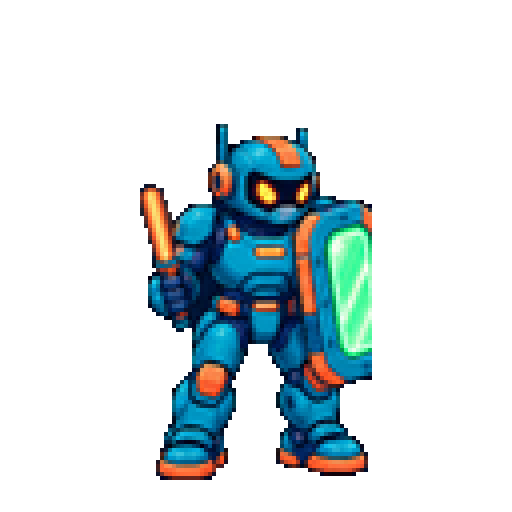
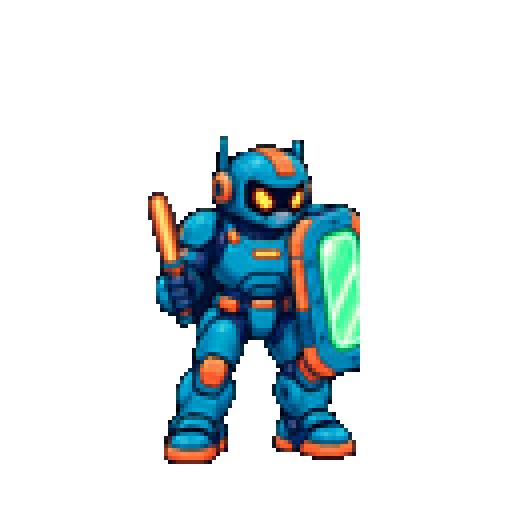
fix(assets): add safe motion gutters to new enemies

Changed region(s): [[0.25, 0.2188, 0.75, 0.9375]]

diff --git a/android/tools/build_striker_enemy.py b/android/tools/build_striker_enemy.py
@@ -32,7 +32,10 @@ SAFE_FRAME_REMAP = {
 }
 
 WALK_BOB_Y = (0, -2, 0, -2, 0, -2)
-ATTACK_LUNGE_X = (0, 0, 4, 10, 4, 0)
+SAFE_WIDTH = 128
+SAFE_HEIGHT = 164
+SAFE_BOTTOM = 12
+ATTACK_LUNGE_X = (0, 0, 2, 4, 2, 0)
 
 
 def remove_light_checker(image: Image.Image) -> Image.Image:
@@ -173,7 +176,9 @@ def normalize_row(frames: list[Image.Image]) -> list[Image.Image]:
     assert all(boxes)
     widths = [box[2] - box[0] for box in boxes if box]
     heights = [box[3] - box[1] for box in boxes if box]
-    scale = min(148 / max(widths), 178 / max(heights))
+    # Leave enough room for runtime bob, hit recoil, TV resampling and facing
+    # flips.  The old 148x178 box left only 4-6px and visibly clipped gloves.
+    scale = min(SAFE_WIDTH / max(widths), SAFE_HEIGHT / max(heights))
     normalized = []
     for frame, box in zip(frames, boxes):
         assert box is not None
@@ -187,8 +192,8 @@ def normalize_row(frames: list[Image.Image]) -> list[Image.Image]:
         sprite = small.resize((target[0] * 2, target[1] * 2), Image.Resampling.NEAREST)
         cell = Image.new("RGBA", CELL_SIZE, (0, 0, 0, 0))
         x = ((CELL_SIZE[0] - sprite.width) // 2) & ~1
-        y = CELL_SIZE[1] - 4 - sprite.height
-        assert x >= 4 and y >= 4, (sprite.size, x, y)
+        y = CELL_SIZE[1] - SAFE_BOTTOM - sprite.height
+        assert x >= 12 and y >= 12, (sprite.size, x, y)
         cell.alpha_composite(sprite, (x, y))
         normalized.append(keep_character_component(cell))
     return normalized
@@ -208,7 +213,7 @@ def validate(atlas: Image.Image) -> None:
             cell = atlas.crop((column * 160, row * 192, (column + 1) * 160, (row + 1) * 192))
             bbox = cell.getchannel("A").getbbox()
             assert bbox is not None, (row, column, "empty")
-            assert min(bbox[0], bbox[1], 160 - bbox[2], 192 - bbox[3]) >= 4, (row, column, bbox)
+            assert min(bbox[0], bbox[1], 160 - bbox[2], 192 - bbox[3]) >= 12, (row, column, bbox)
             hashes.add(hashlib.sha256(cell.tobytes()).digest())
         assert len(hashes) >= 3, (row, "insufficient motion", len(hashes))
 
@@ -228,6 +233,8 @@ def main() -> None:
     assert rows[1] is not None
     rows[1] = [translate_cell(frame, 0, WALK_BOB_Y[index])
                for index, frame in enumerate(rows[1])]
+    # A restrained 4px lunge restores an extra timing key while the narrower
+    # normalization still guarantees at least 12px on every side.
     assert rows[2] is not None
     rows[2] = [translate_cell(frame, ATTACK_LUNGE_X[index], 0)
                for index, frame in enumerate(rows[2])]

diff --git a/android/tools/build_shield_guard_enemy.py b/android/tools/build_shield_guard_enemy.py
@@ -16,6 +16,9 @@ OUTPUT = ROOT / "android/app/src/main/assets/enemies"
 ATLAS_SIZE = (960, 1152)
 CELL_SIZE = (160, 192)
 COLS, ROWS = 6, 6
+SAFE_WIDTH = 132
+SAFE_HEIGHT = 164
+SAFE_BOTTOM = 12
 SHEETS = (
     ("idle_walk.png", 0, 1),
     ("attacks.png", 2, 3),
@@ -135,7 +138,9 @@ def normalize_row(frames: list[Image.Image]) -> list[Image.Image]:
     assert all(boxes)
     widths = [box[2] - box[0] for box in boxes if box]
     heights = [box[3] - box[1] for box in boxes if box]
-    scale = min(148 / max(widths), 178 / max(heights))
+    # Reserve motion-safe gutters. The prior 148x178 normalization left only
+    # 4-6px, which became visually cropped after TV scaling and animation.
+    scale = min(SAFE_WIDTH / max(widths), SAFE_HEIGHT / max(heights))
     normalized = []
     for frame, box in zip(frames, boxes):
         assert box is not None
@@ -150,8 +155,8 @@ def normalize_row(frames: list[Image.Image]) -> list[Image.Image]:
         sprite.putdata(data)
         cell = Image.new("RGBA", CELL_SIZE, (0, 0, 0, 0))
         x = ((CELL_SIZE[0] - sprite.width) // 2) & ~1
-        y = (CELL_SIZE[1] - 4 - sprite.height) & ~1
-        assert x >= 4 and y >= 4, (sprite.size, x, y)
+        y = (CELL_SIZE[1] - SAFE_BOTTOM - sprite.height) & ~1
+        assert x >= 12 and y >= 12, (sprite.size, x, y)
         cell.alpha_composite(sprite, (x, y))
         normalized.append(cell)
     return normalized
@@ -168,7 +173,7 @@ def validate(atlas: Image.Image) -> None:
         for column in range(COLS):
             cell = atlas.crop((column*160, row*192, (column+1)*160, (row+1)*192))
             bbox = cell.getchannel("A").getbbox()
-            assert bbox and min(bbox[0], bbox[1], 160-bbox[2], 192-bbox[3]) >= 4, (row, column, bbox)
+            assert bbox and min(bbox[0], bbox[1], 160-bbox[2], 192-bbox[3]) >= 12, (row, column, bbox)
             hashes.add(hashlib.sha256(cell.tobytes()).digest())
         assert len(hashes) >= 3, (row, len(hashes))
 

diff --git a/android/tools/test_striker_enemy_contract.py b/android/tools/test_striker_enemy_contract.py
@@ -54,6 +54,10 @@ for row in range(6):
     assert len(hashes) >= 3, (row, "static Striker animation")
     for column, cell in enumerate(cells):
         alpha = cell.getchannel("A")
+        bbox = alpha.getbbox()
+        assert bbox is not None
+        margins = (bbox[0], bbox[1], 160 - bbox[2], 192 - bbox[3])
+        assert min(margins) >= 12, (row, column, "unsafe motion margin", margins)
         pixels = alpha.load()
         seen = set()
         components = 0
@@ -82,6 +86,15 @@ assert attack_cells[2] == attack_cells[4], "attack retract must reuse clean lung
 for column in range(6):
     cell = atlas.crop((column * 160, 192, (column + 1) * 160, 384))
     bbox = cell.getchannel("A").getbbox()
-    assert bbox is not None and bbox[2] <= 150, ("walk glove clipped at right edge", column, bbox)
+    assert bbox is not None and bbox[2] <= 148, ("walk glove clipped at right edge", column, bbox)
 
-print("Striker enemy contract: PASS (36 clean connected frames, TV variant, 2px clusters)")
+tv = Image.open(ASSETS / "tv/enemies/striker_anim.png").convert("RGBA")
+for row in range(6):
+    for column in range(6):
+        bbox = tv.crop((column * 120, row * 144, (column + 1) * 120,
+                        (row + 1) * 144)).getchannel("A").getbbox()
+        assert bbox is not None
+        assert min(bbox[0], bbox[1], 120 - bbox[2], 144 - bbox[3]) >= 8, (
+            row, column, "unsafe TV margin", bbox)
+
+print("Striker enemy contract: PASS (36 frames, 12px/8px safe gutters, 2px clusters)")

diff --git a/android/tools/test_shield_guard_enemy_contract.py b/android/tools/test_shield_guard_enemy_contract.py
@@ -41,5 +41,20 @@ for row in range(6):
         ImageChops.difference(frames[0].getchannel("A"), frame.getchannel("A")).getbbox()
         is not None for frame in frames[1:]
     )
+    for column, frame in enumerate(frames):
+        bbox = frame.getchannel("A").getbbox()
+        assert bbox is not None
+        assert min(bbox[0], bbox[1], 160 - bbox[2], 192 - bbox[3]) >= 12, (
+            row, column, "unsafe motion margin", bbox)
 
-print("Shield Guard enemy contract: PASS (36 frames, guard, staged loading)")
+with Image.open(ASSETS / "tv/enemies/shield_guard_anim.png") as source:
+    tv = source.convert("RGBA")
+for row in range(6):
+    for column in range(6):
+        bbox = tv.crop((column * 120, row * 144, (column + 1) * 120,
+                        (row + 1) * 144)).getchannel("A").getbbox()
+        assert bbox is not None
+        assert min(bbox[0], bbox[1], 120 - bbox[2], 144 - bbox[3]) >= 8, (
+            row, column, "unsafe TV margin", bbox)
+
+print("Shield Guard enemy contract: PASS (36 frames, 12px/8px safe gutters, guard)")

diff --git a/PROJECT_HISTORY_AR.md b/PROJECT_HISTORY_AR.md
@@ -178,6 +178,21 @@
 
 ## سجل الطلبات والتعديلات المشترك
 
+### 2026-08-22-25 — إصلاح قص آخر عدوين
+
+- المنفذ: Codex
+- طلب المستخدم: إصلاح Striker وShield Guard لأن الحركة تُقص الرسم من إحدى الجهات.
+- الحالة: قيد التنفيذ.
+- نقطة البداية: `v0.30.0-alpha` / commit `71594e3`.
+- ما سيتم: قياس حدود كل إطار في المصدر وأطلس الهاتف وTV، إعادة بناء الأطلسين
+  بمساحة أمان تستوعب أقصى حركة، وإضافة اختبار يمنع ملامسة أو قص أي حافة.
+- الملفات المعدلة حتى الآن:
+  - `PROJECT_HISTORY_AR.md`
+- الاختبارات: قيد التنفيذ.
+- Release: لا يوجد بعد.
+- ملاحظات/مخاطر: سيُعاد استخدام الصور الحالية أولًا؛ لن تُنشأ فيديوهات.
+- التالي: تدقيق بصري ورقمي لكل خلية وتحديد هل القص من المصدر أم من التطبيع.
+
 ### 2026-08-21-24 — تجهيز v0.30.0-alpha
 
 - المنفذ: Codex
